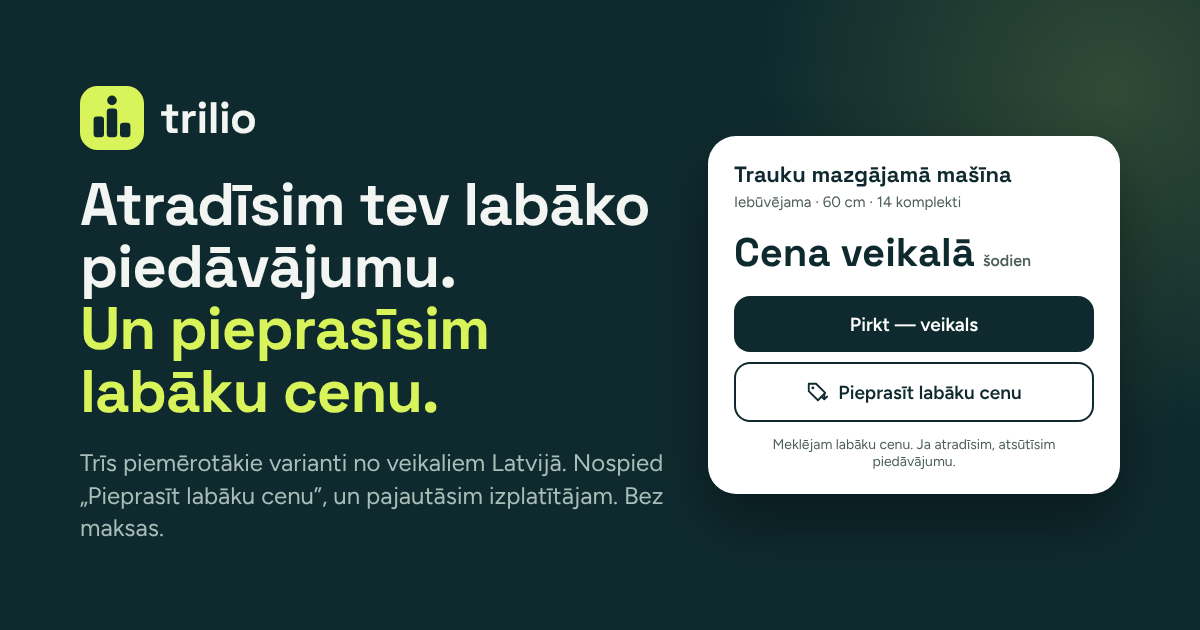
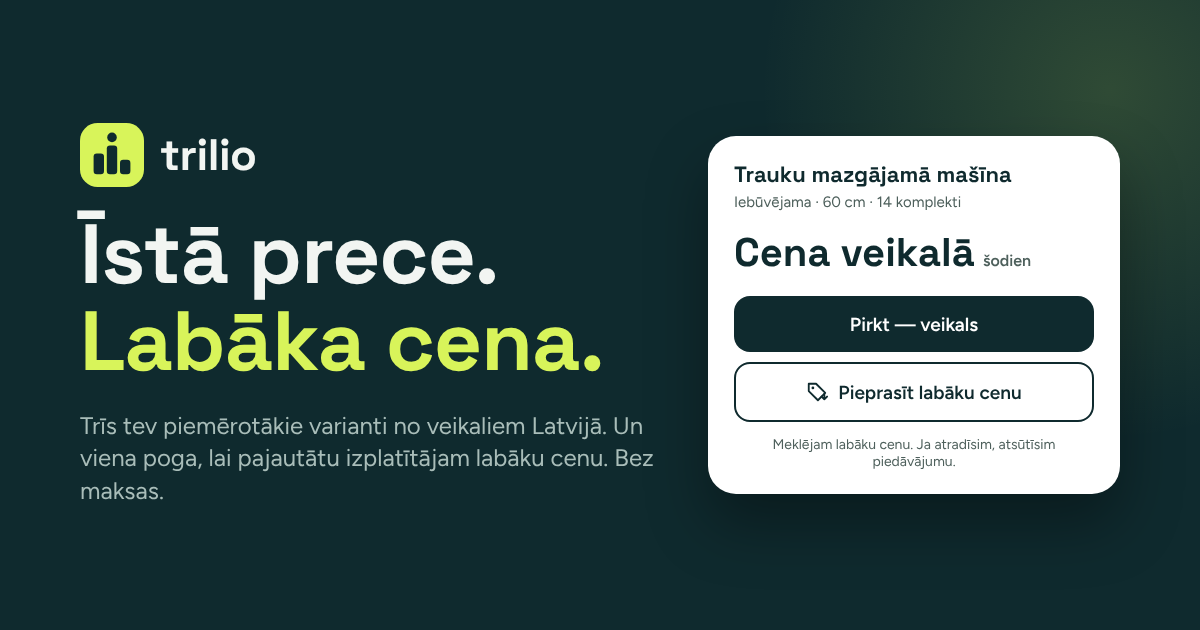
Cover and share image: "Īstā prece. Labāka cena."
"Best deal, then a better price" contradicted itself. The line now
separates what Trilio finds (the right product) from what the team
works on (the price); the subline carries the condition.

Claude-Session: https://claude.ai/code/session_015HBUkb7GNF5eP3hcTPAs8j

Changed region(s): [[0.0617, 0.1206, 0.555, 0.8746]]

diff --git a/src/app/[locale]/seo.ts b/src/app/[locale]/seo.ts
@@ -9,8 +9,8 @@ import { appBaseUrl } from "@/services/payments";
 // own title spread openGraphBase() to keep the site name, locale and share image.
 
 const OG_ALT: Record<UiLocale, string> = {
-  lv: "Trilio — atradīsim tev labāko piedāvājumu un pieprasīsim labāku cenu.",
-  en: "Trilio — we find you the best deal and ask for a better price.",
+  lv: "Trilio — īstā prece. Labāka cena.",
+  en: "Trilio — the right product. A better price.",
 };
 const OG_LOCALE: Record<UiLocale, string> = { lv: "lv_LV", en: "en_GB" };
 
